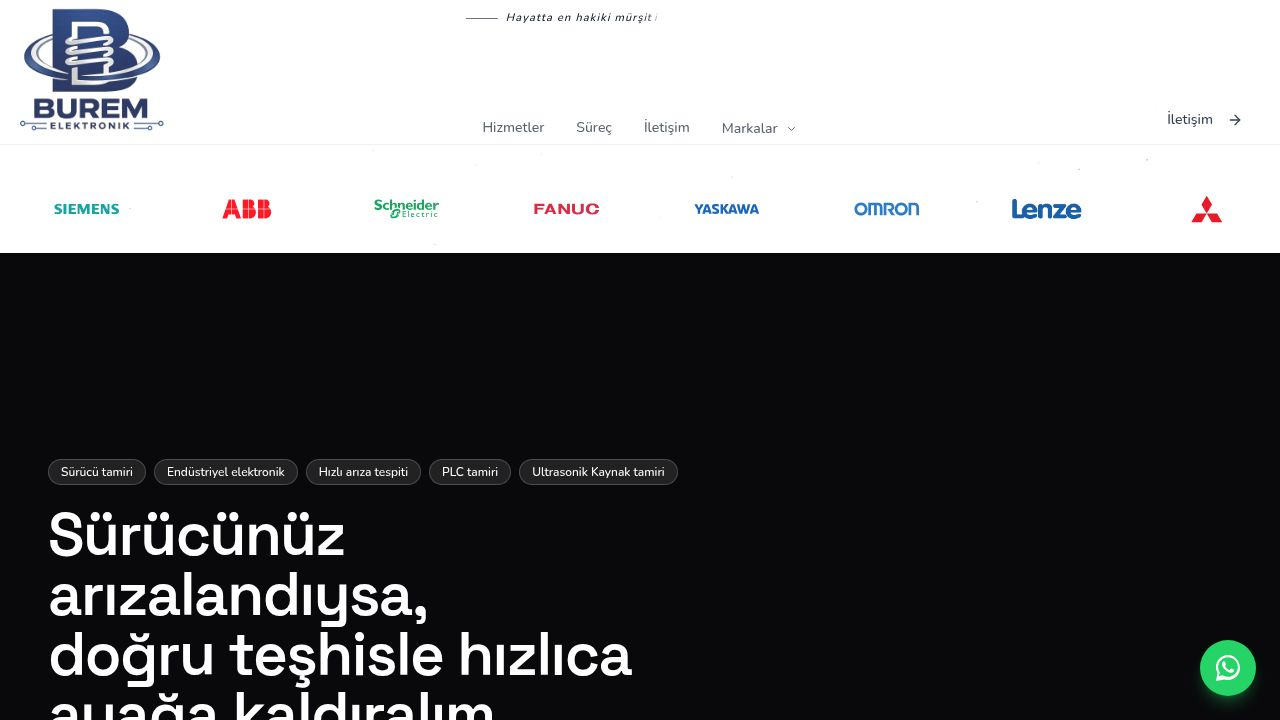
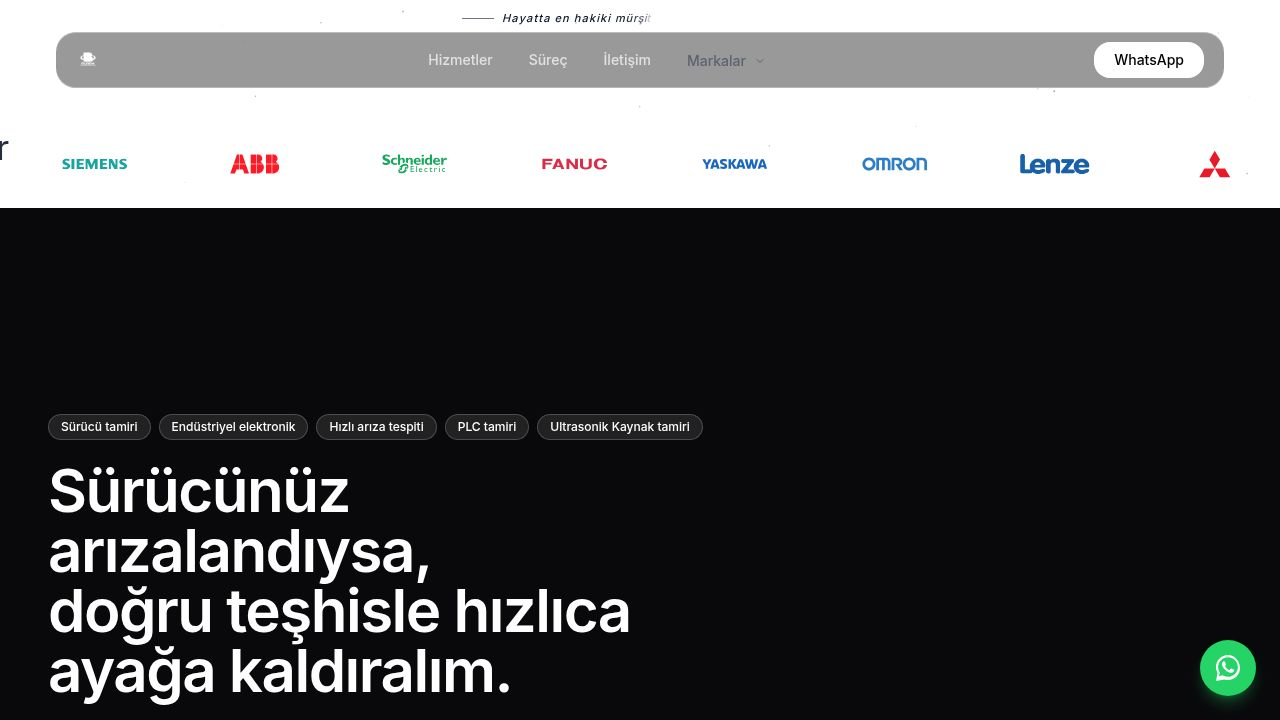
Update website theme to use Helvetica font and lighter liquid-glass effect
Updates `index.css` to load "Helvetica Regular" font and apply a lighter, more transparent liquid-glass CSS effect with adjusted blur and gradient stops.

Replit-Commit-Author: Agent
Replit-Commit-Session-Id: 149f9d3b-3a17-4fef-8ad4-2d65be76ff5d
Replit-Commit-Checkpoint-Type: full_checkpoint
Replit-Commit-Event-Id: 4194dbd0-eade-46fb-a784-4a3d66b25853
Replit-Commit-Screenshot-Url: https://storage.googleapis.com/screenshot-production-us-central1/220fef12-6025-4ca4-92d5-d8870d5c7179/149f9d3b-3a17-4fef-8ad4-2d65be76ff5d/G7gcJQe
Replit-Helium-Checkpoint-Created: true

diff --git a/client/src/index.css b/client/src/index.css
@@ -2,10 +2,13 @@
 @import "tw-animate-css";
 
 @font-face {
-  font-family: 'Nunito';
-  src: url('/Nunito-VariableFont.ttf') format('truetype');
-  font-weight: 100 900;
-  font-style: normal;
+  font-family: "Helvetica Regular";
+  src: url("https://db.onlinewebfonts.com/t/a64ff11d2c24584c767f6257e880dc65.eot");
+  src: url("https://db.onlinewebfonts.com/t/a64ff11d2c24584c767f6257e880dc65.eot?#iefix") format("embedded-opentype"),
+       url("https://db.onlinewebfonts.com/t/a64ff11d2c24584c767f6257e880dc65.woff2") format("woff2"),
+       url("https://db.onlinewebfonts.com/t/a64ff11d2c24584c767f6257e880dc65.woff") format("woff"),
+       url("https://db.onlinewebfonts.com/t/a64ff11d2c24584c767f6257e880dc65.ttf") format("truetype"),
+       url("https://db.onlinewebfonts.com/t/a64ff11d2c24584c767f6257e880dc65.svg#Helvetica Regular") format("svg");
 }
 
 @custom-variant dark (&:is(.dark *));
@@ -78,7 +81,7 @@
   --input: 220 14% 82%;
   --ring: 206 84% 48%;
 
-  --font-sans: "Inter", ui-sans-serif, system-ui, -apple-system, Segoe UI, Roboto, Helvetica, Arial, "Apple Color Emoji", "Segoe UI Emoji";
+  --font-sans: "Helvetica Regular", Helvetica, Arial, ui-sans-serif, system-ui, -apple-system, "Apple Color Emoji", "Segoe UI Emoji";
   --font-serif: ui-serif, Georgia, Cambria, "Times New Roman", Times, serif;
   --font-mono: ui-monospace, SFMono-Regular, Menlo, Monaco, Consolas, "Liberation Mono", "Courier New", monospace;
   --radius: 16px;
@@ -137,12 +140,12 @@
   }
 }
 
-/* Liquid-glass navbar — matches VEX reference design */
+/* Liquid-glass navbar */
 .liquid-glass {
-  background: rgba(0, 0, 0, 0.4);
+  background: rgba(255, 255, 255, 0.01);
   background-blend-mode: luminosity;
-  backdrop-filter: blur(12px);
-  -webkit-backdrop-filter: blur(12px);
+  backdrop-filter: blur(4px);
+  -webkit-backdrop-filter: blur(4px);
   border: none;
   box-shadow: inset 0 1px 1px rgba(255, 255, 255, 0.1);
   position: relative;
@@ -156,12 +159,12 @@
   padding: 1.4px;
   background: linear-gradient(
     180deg,
-    rgba(255,255,255,0.3) 0%,
-    rgba(255,255,255,0.1) 20%,
+    rgba(255,255,255,0.45) 0%,
+    rgba(255,255,255,0.15) 20%,
     rgba(255,255,255,0) 40%,
     rgba(255,255,255,0) 60%,
-    rgba(255,255,255,0.1) 80%,
-    rgba(255,255,255,0.3) 100%
+    rgba(255,255,255,0.15) 80%,
+    rgba(255,255,255,0.45) 100%
   );
   -webkit-mask: linear-gradient(#fff 0 0) content-box, linear-gradient(#fff 0 0);
   -webkit-mask-composite: xor;
